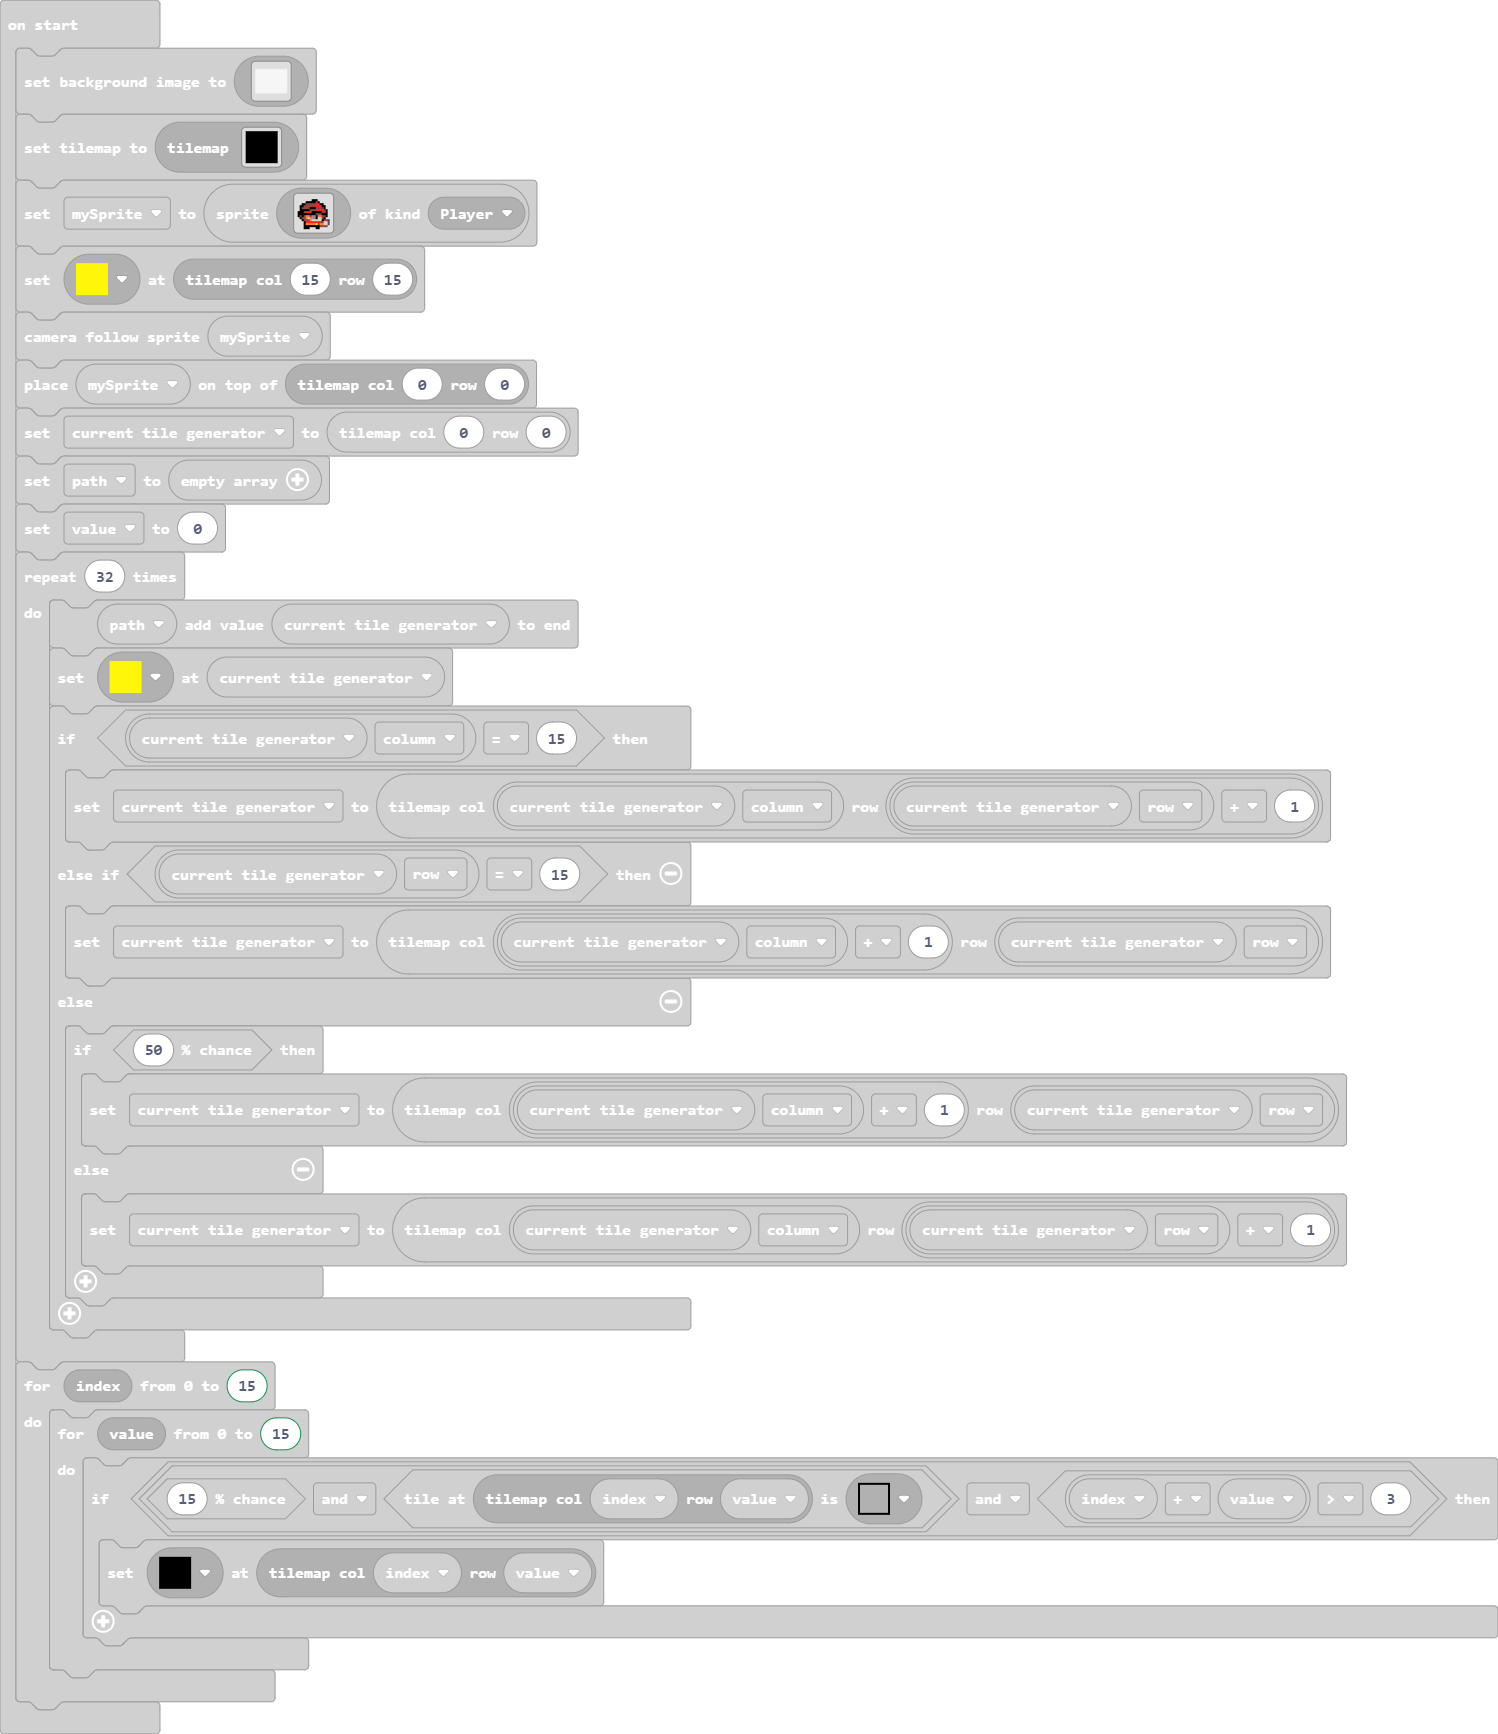
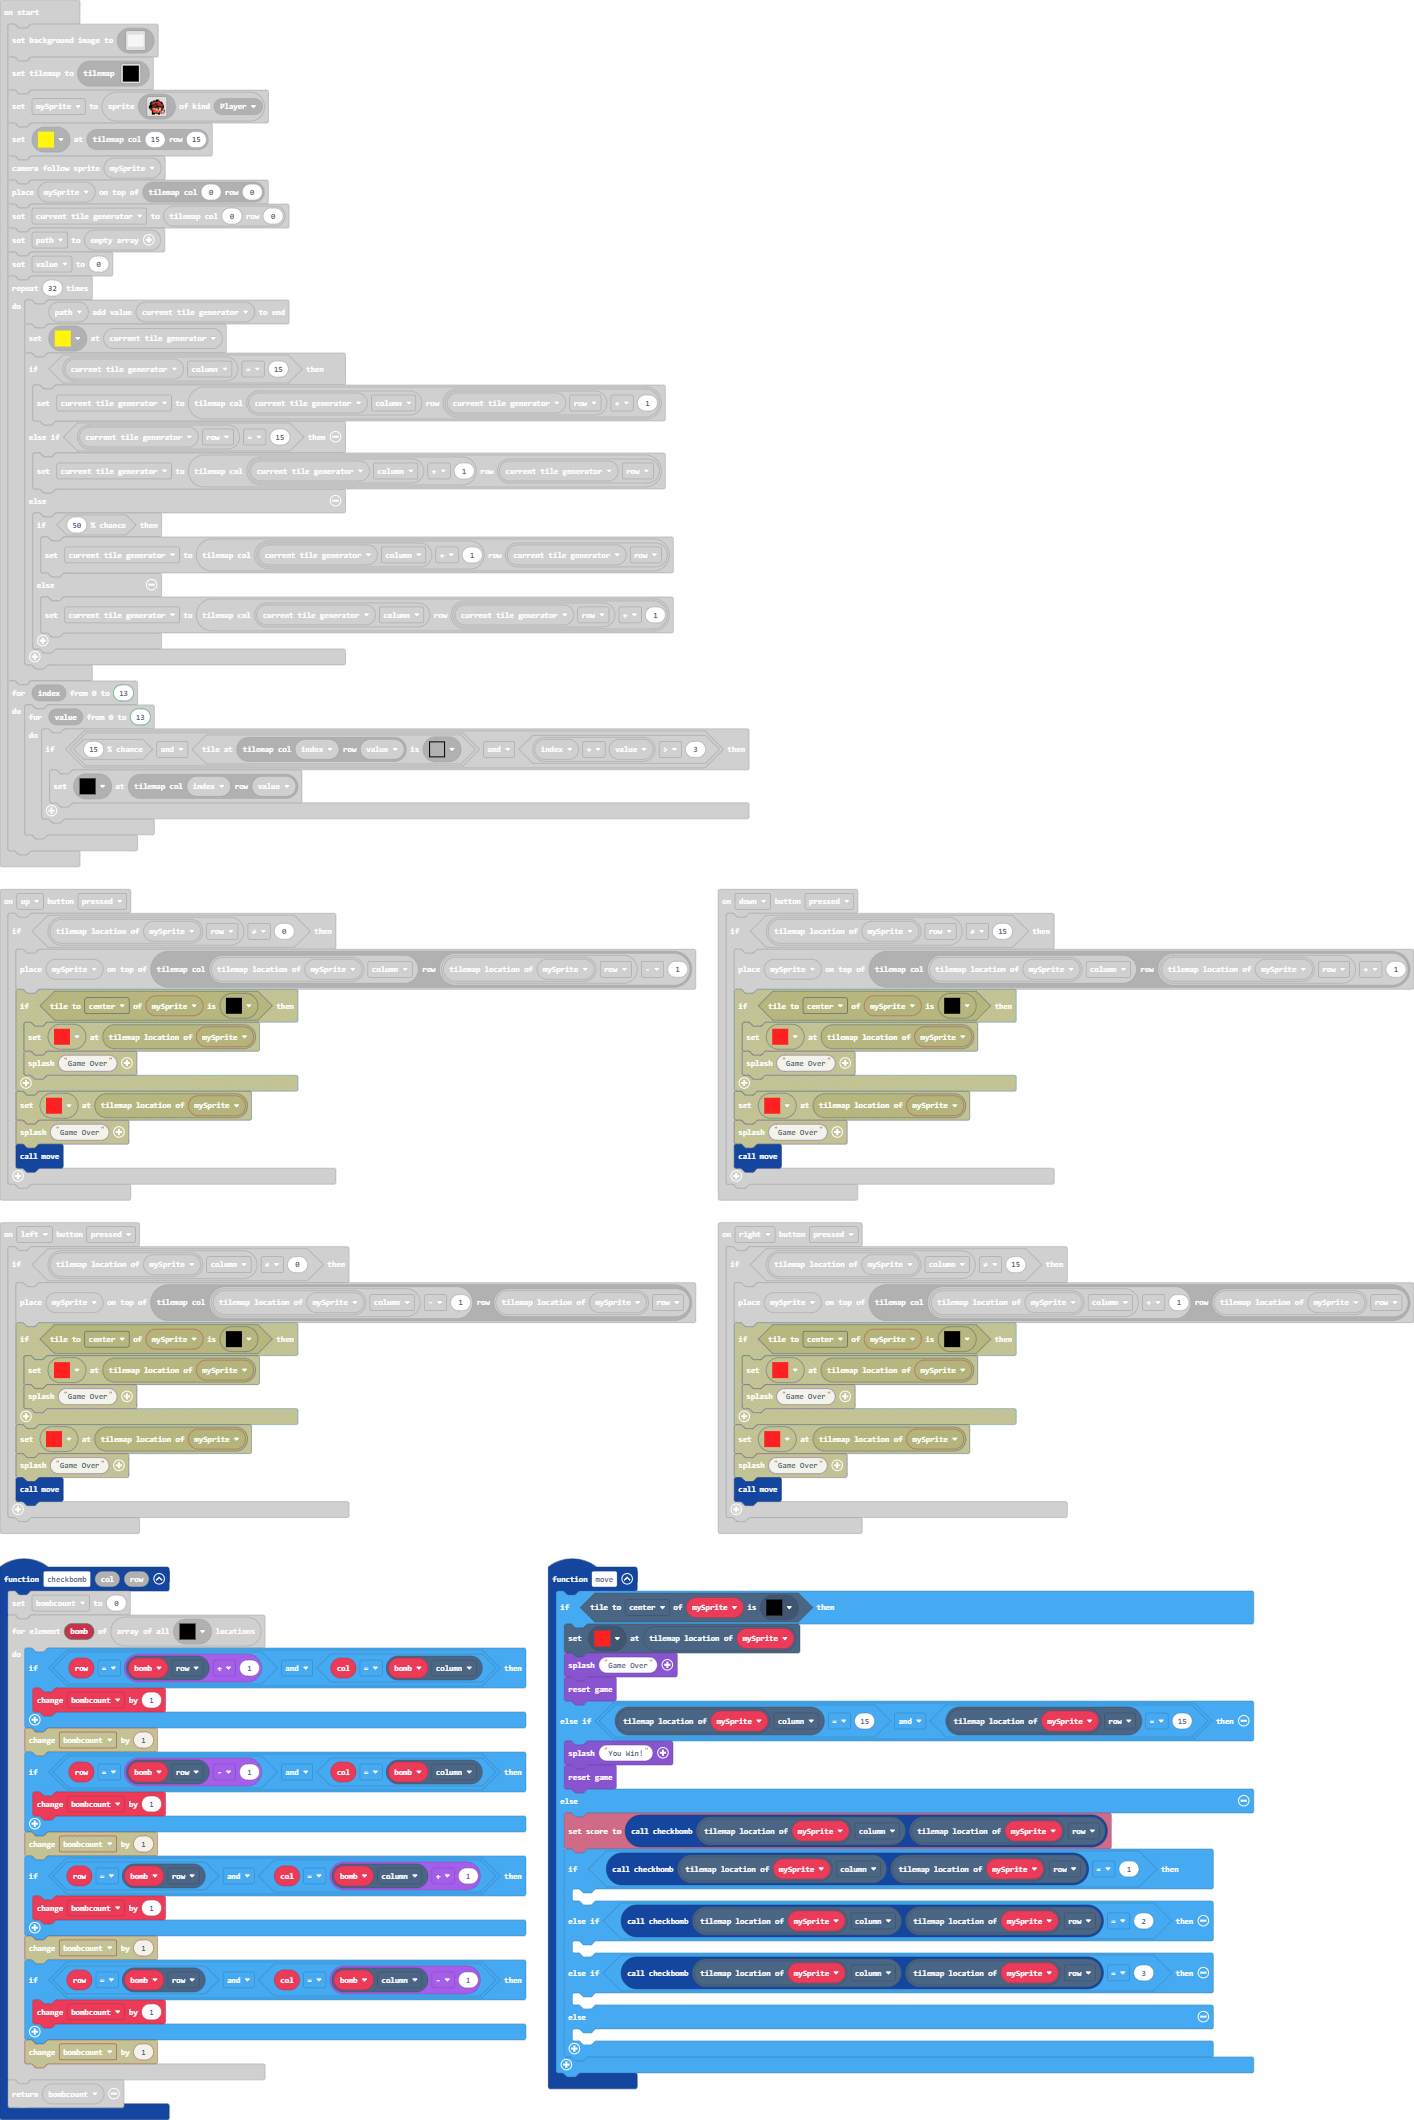
Restore '1/21/2024, 10:42:14 PM Update main.blocks, main.ts'

diff --git a/main.ts b/main.ts
@@ -225,8 +225,8 @@ for (let index = 0; index < 32; index++) {
         }
     }
 }
-for (let index = 0; index <= 15; index++) {
-    for (let value = 0; value <= 15; value++) {
+for (let index = 0; index <= 13; index++) {
+    for (let value = 0; value <= 13; value++) {
         if (Math.percentChance(15) && tiles.tileAtLocationEquals(tiles.getTileLocation(index, value), assets.tile`myTile`) && index + value > 3) {
             tiles.setTileAt(tiles.getTileLocation(index, value), assets.tile`myTile0`)
         }
